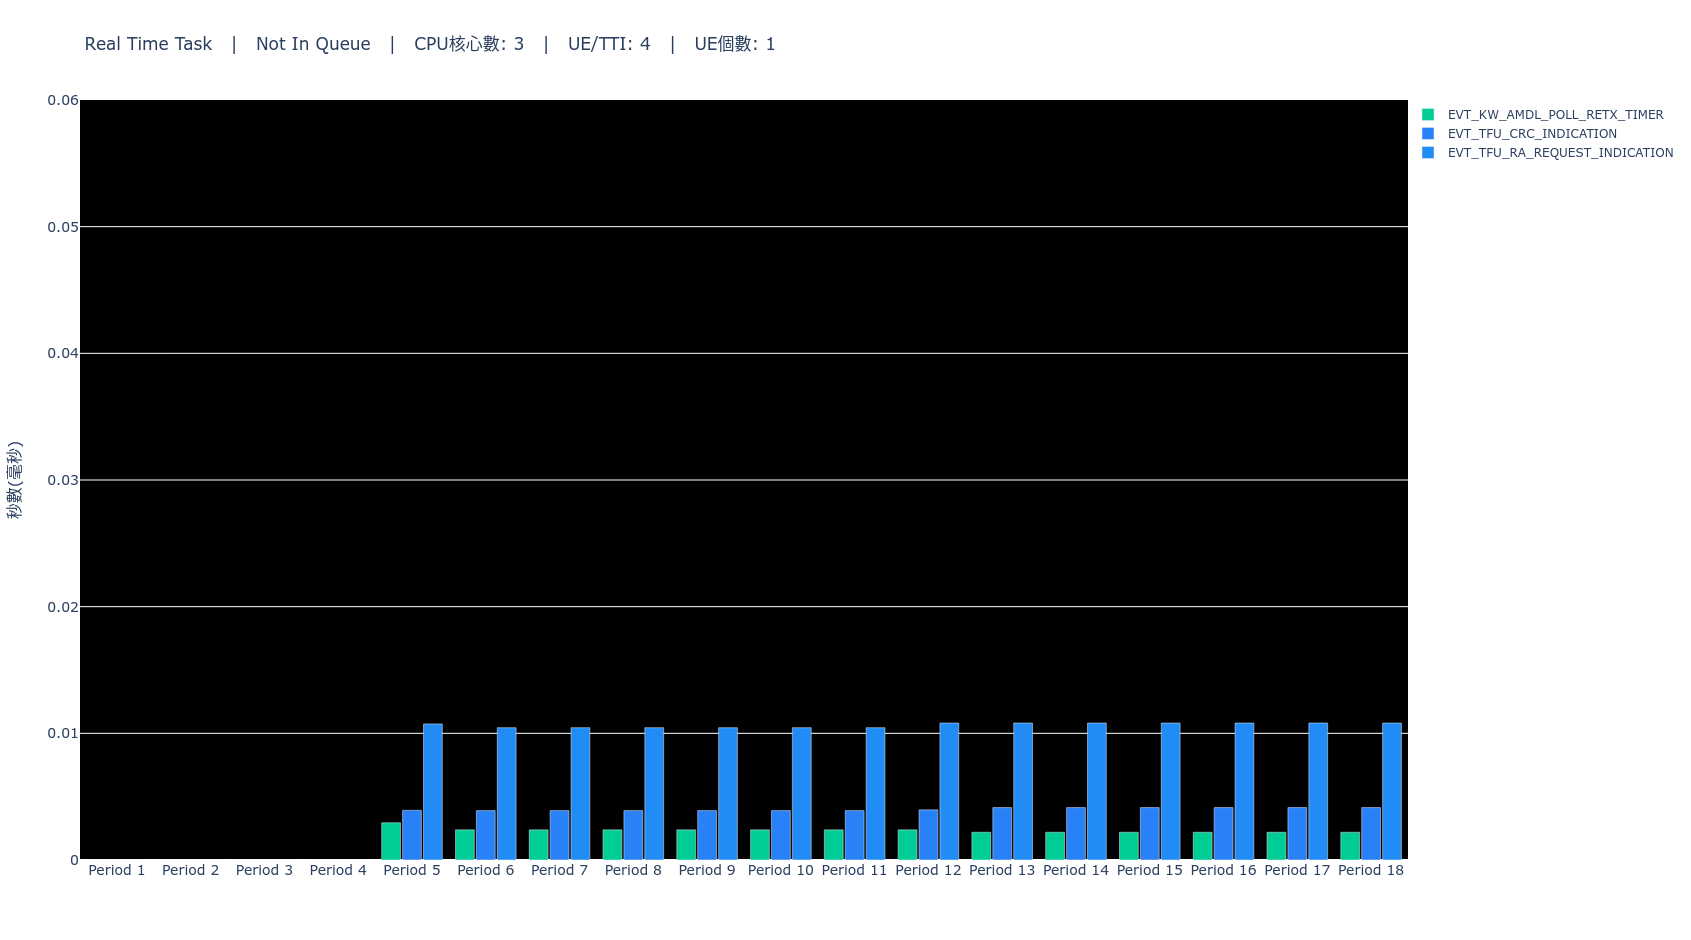
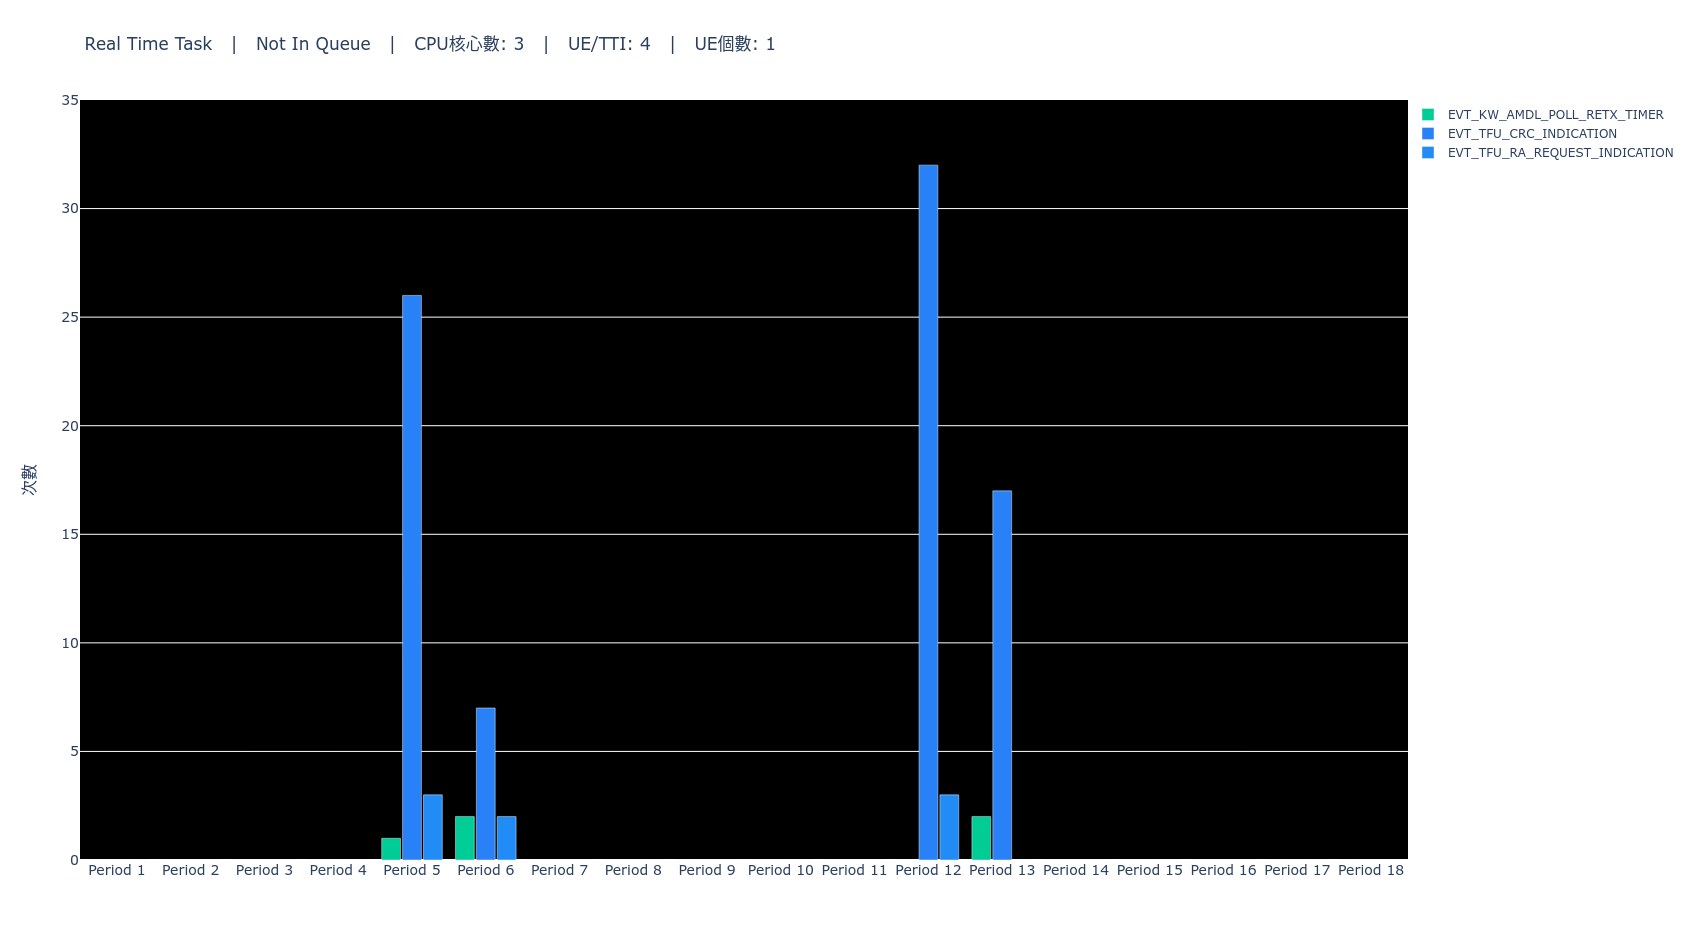
Update

Changed region(s): [[0.0308, 0.1543, 0.8303, 0.9255], [0.0, 0.4628, 0.0615, 0.5553], [0.0308, 0.3702, 0.0615, 0.4011]]

diff --git a/sch_for_gen_all_html.py b/sch_for_gen_all_html.py
@@ -2,7 +2,7 @@ import os
 import time
 
 start_time = time.time()
-COLUMN_NAME = 'AVG_CYCLES'
+COLUMN_NAME = 'NUM_TIMES'
 
 
 def gen_htmls():
